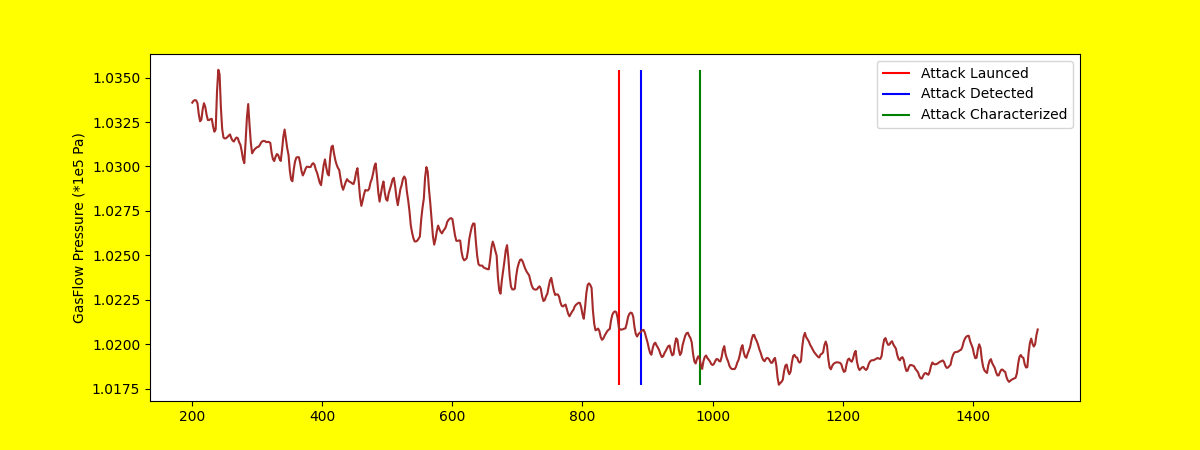
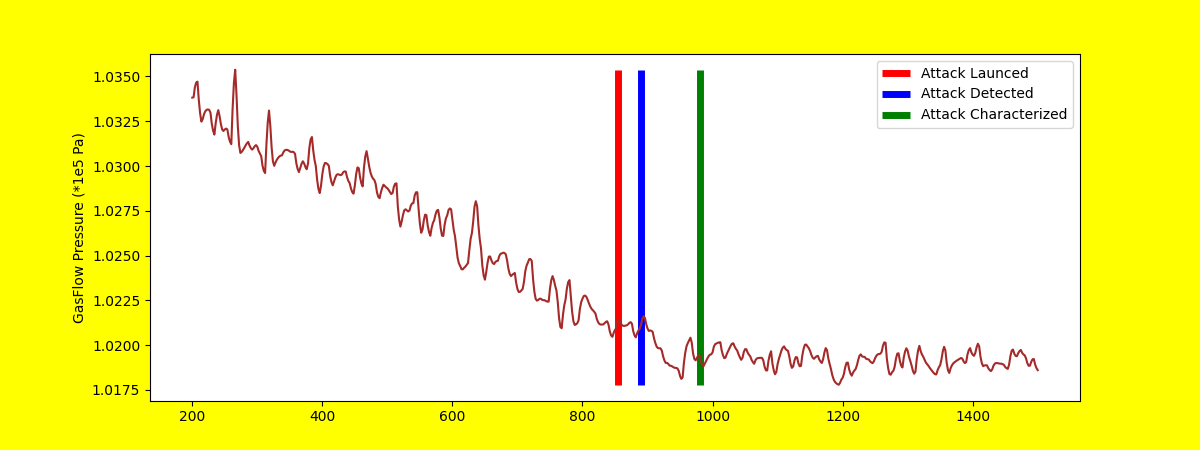
figures added

diff --git a/mysite/polls/templates/polls/protection.html b/mysite/polls/templates/polls/protection.html
@@ -47,11 +47,11 @@
         <br>
         <br>
         {% if protection %}
-          <p style="color:darkred"><b>Attack Launch Time : {{ attack_loc }} sec</b>
-          <br> <b>Attack Value : {{ attack_value }} sec</b></p>
-          <p style="color:blue"><b>Attack Detected At : {{ detection_loc }} sec</b></p>
-          <p style="color:green"><b>Attack Characterized At : {{ prediction_loc }} sec</b>
-          <br> <b>Predicted Attack Value : {{ prediction_value }} sec</b></p>
+          <p style="color:darkred"><b>Attack launched at : {{ attack_loc }} sec</b>
+          <br> <b>Attack value : {{ attack_value }} sec</b></p>
+          <p style="color:blue"><b>Attack detected at : {{ detection_loc }} sec</b></p>
+          <p style="color:green"><b>Attack characterized at : {{ prediction_loc }} sec</b>
+          <br> <b>Predicted attack value : {{ prediction_value }} sec</b></p>
         {% endif %}
       </div>
       <!-- <div style="clear:both; font-size:1px;"></div> -->

diff --git a/mysite/polls/datareader.py b/mysite/polls/datareader.py
@@ -70,16 +70,16 @@ def plot_main_signal(signal_arr, gt_data, conf, protection, system):
     fig = plt.gcf()
     plt.plot(y_arr, signal_arr[0], color='brown')
     # plt.plot(y_arr[49:], moving_average(normal_signal, 50), color='green')
-    plt.vlines(x=gt_data[1], ymin=ymin, ymax=ymax, color='red', label='Attack Launced')
+    plt.vlines(x=gt_data[1], ymin=ymin, ymax=ymax, color='red', label='Attack Launced', linewidth=5.0)
     final_output['attack_value'] = str(gt_data[0])
     final_output['attack_loc'] = str(gt_data[1])
     # fig.text(0.78, 0.32, "Delay Attack : " + str(gt_data[0]) + " sec, \nlaunched at t=" + str(gt_data[1]), color="red")
     print(protection)
     if(signal_arr[4]==1 and protection=="True"):
-        plt.vlines(x=signal_arr[2] + conf['col_freq']*conf['lower_step'], ymin=ymin, ymax=ymax, color='blue', label='Attack Detected')
+        plt.vlines(x=signal_arr[2] + conf['col_freq']*conf['lower_step'], ymin=ymin, ymax=ymax, color='blue', label='Attack Detected', linewidth=5.0)
         final_output['detection_loc'] = str(signal_arr[2])
         # fig.text(0.78, 0.26, "Attack Detected at t=" + str(signal_arr[2]), color="blue")
-        plt.vlines(x=signal_arr[1] + conf['col_freq']*conf['lower_step'], ymin=ymin, ymax=ymax, color='green', label='Attack Characterized')
+        plt.vlines(x=signal_arr[1] + conf['col_freq']*conf['lower_step'], ymin=ymin, ymax=ymax, color='green', label='Attack Characterized', linewidth=5.0)
         final_output['prediction_value'] = str(int(signal_arr[3]))
         final_output['prediction_loc'] = str(signal_arr[1])
         # fig.text(0.78, 0.16, "Delay Value Predicted : " + str(int(signal_arr[3])) + " sec, \nat t=" + str(signal_arr[1]), color="green")
